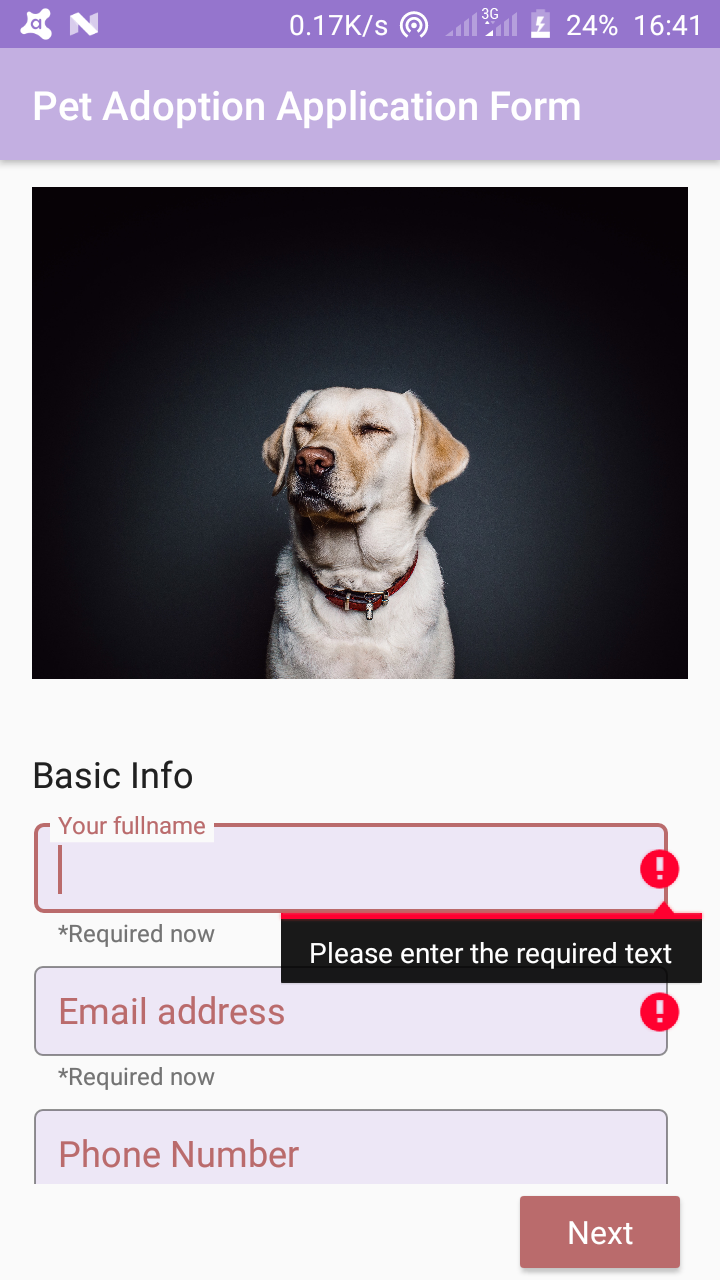
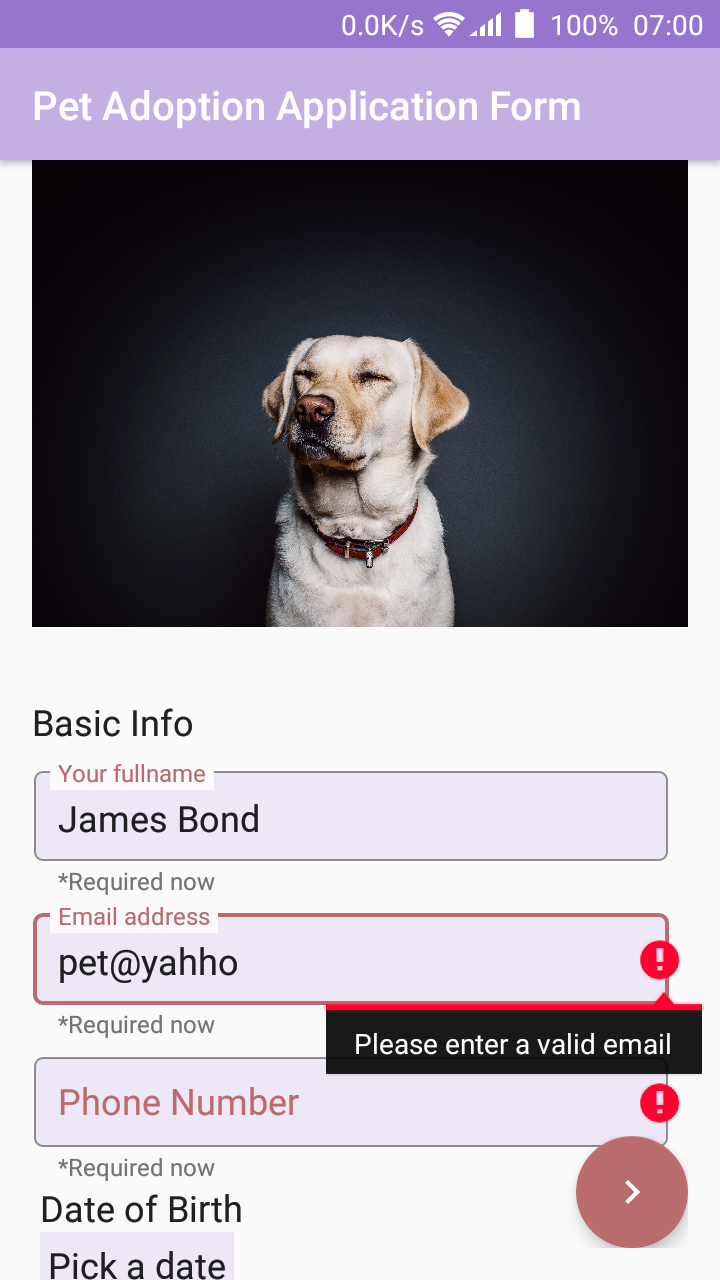
refactor: code and UI refactor

diff --git a/app/src/main/java/com/zizohanto/adoptapet/ui/FormFragment.java b/app/src/main/java/com/zizohanto/adoptapet/ui/FormFragment.java
@@ -1,5 +1,6 @@
 package com.zizohanto.adoptapet.ui;
 
+import android.annotation.SuppressLint;
 import android.app.DatePickerDialog;
 import android.content.Context;
 import android.databinding.DataBindingUtil;
@@ -7,6 +8,7 @@ import android.graphics.Typeface;
 import android.os.Bundle;
 import android.support.annotation.NonNull;
 import android.support.annotation.Nullable;
+import android.support.design.widget.FloatingActionButton;
 import android.support.design.widget.TextInputEditText;
 import android.support.design.widget.TextInputLayout;
 import android.support.v4.app.Fragment;
@@ -18,13 +20,13 @@ import android.text.InputFilter;
 import android.text.InputType;
 import android.text.TextUtils;
 import android.text.TextWatcher;
+import android.util.Log;
 import android.view.LayoutInflater;
 import android.view.View;
 import android.view.ViewGroup;
 import android.webkit.WebView;
 import android.widget.AdapterView;
 import android.widget.ArrayAdapter;
-import android.widget.Button;
 import android.widget.EditText;
 import android.widget.ImageView;
 import android.widget.LinearLayout;
@@ -76,6 +78,7 @@ public class FormFragment extends Fragment implements View.OnClickListener {
     private int mCurrentPageNumber;
     private int mCurrentPagePosition;
     private int mCount;
+    private boolean mIsFirstTimeFragmentCreation = true;
     private HashMap<String, String> mElementIdAndUserInputMap;
     private LinearLayout mBaseLayout;
     private FragmentFormBinding mFragmentFormBinding;
@@ -121,6 +124,7 @@ public class FormFragment extends Fragment implements View.OnClickListener {
         }
     }
 
+    @SuppressLint("RestrictedApi")
     @Override
     public View onCreateView(@Nullable LayoutInflater inflater, ViewGroup container,
                              Bundle savedInstanceState) {
@@ -137,16 +141,17 @@ public class FormFragment extends Fragment implements View.OnClickListener {
             restoreViews();
         }
 
-        Button nextButton = mFragmentFormBinding.nextButton;
+        FloatingActionButton nextButton = mFragmentFormBinding.nextButton;
         nextButton.setOnClickListener(this);
 
-        Button previousButton = mFragmentFormBinding.previousButton;
+        FloatingActionButton previousButton = mFragmentFormBinding.previousButton;
         previousButton.setOnClickListener(this);
 
         if (mCurrentPagePosition == Constants.CURRENT_PAGE_POSITION_FIRST) {
             previousButton.setVisibility(View.GONE);
         } else if (mCurrentPagePosition == Constants.CURRENT_PAGE_POSITION_LAST) {
-            nextButton.setText(mContext.getResources().getString(R.string.submit_button));
+            Log.e(TAG, "CURRENT_PAGE_POSITION_LAST: ");
+            nextButton.setImageDrawable(ContextCompat.getDrawable(mContext, R.drawable.ic_done_24dp));
         }
         return root;
     }
@@ -155,6 +160,7 @@ public class FormFragment extends Fragment implements View.OnClickListener {
     public void onSaveInstanceState(@NonNull Bundle outState) {
         outState.putInt(KEY_COUNT, mCount);
         outState.putStringArrayList(KEY_ACTION_DEPENDENT_VIEWS_UNIQUE_IDS, mActionDependentViewsUniqueIds);
+        // TODO: confirm which callback is always called before onSaveInstanceState so that setElementIdAndUserInputMap is called there
         setElementIdAndUserInputMap();
         outState.putSerializable(KEY_ELEMENT_ID_AND_USER_INPUT_MAP, mElementIdAndUserInputMap);
 
@@ -165,7 +171,14 @@ public class FormFragment extends Fragment implements View.OnClickListener {
     public void onActivityCreated(@Nullable Bundle savedInstanceState) {
         super.onActivityCreated(savedInstanceState);
 
-        mOnFragmentActivityCreatedListener.onFragmentActivityCreated();
+        mOnFragmentActivityCreatedListener.onFragmentActivityCreated(mIsFirstTimeFragmentCreation);
+    }
+
+    @Override
+    public void onDestroyView() {
+        super.onDestroyView();
+
+        mIsFirstTimeFragmentCreation = false;
     }
 
     private void setElementIdAndUserInputMap() {
@@ -239,7 +252,7 @@ public class FormFragment extends Fragment implements View.OnClickListener {
                         }
                         TextInputEditText inputEditText = getTextInputEditText(textInputLayout);
                         View.generateViewId();
-                        int textId = getElementIdInt(element.getUniqueId());
+                        int textId = getNumberFromTextElementId(element.getUniqueId());
                         inputEditText.setId(textId);
                         textInputLayout.addView(inputEditText);
                         setViewTag(element, textInputLayout);
@@ -268,14 +281,12 @@ public class FormFragment extends Fragment implements View.OnClickListener {
                         setViewTag(element, numericInputLayout);
                         setViewTag(element, numericEditText);
 
-                        setViewTag(element, numericEditText);
                         if (isADependentElement(element)) {
                             numericEditText.setVisibility(View.GONE);
                         }
 
-
                         View.generateViewId();
-                        int numericId = getNumericElementIdInt(element.getUniqueId());
+                        int numericId = getNumberFromNumericElementId(element.getUniqueId());
                         // To differentiate the ids of formattednumeric and text
                         numericEditText.setId(numericId + 100);
                         numericEditText.setInputType(InputType.TYPE_CLASS_NUMBER);
@@ -338,7 +349,7 @@ public class FormFragment extends Fragment implements View.OnClickListener {
                         textViewDate.setInputType(InputType.TYPE_CLASS_DATETIME);
                         textViewDate.setTextAppearance(android.R.style.TextAppearance_Medium);
                         textViewDate.setText(Constants.PICK_A_DATE);
-                        textViewDate.setBackgroundColor(ContextCompat.getColor(mContext, R.color.dateColor));
+                        textViewDate.setBackgroundColor(ContextCompat.getColor(mContext, R.color.boxcolor));
                         textViewDate.setPadding(8, 8, 8, 8);
                         setViewTag(element, textViewDate);
 
@@ -411,11 +422,11 @@ public class FormFragment extends Fragment implements View.OnClickListener {
         }
     }
 
-    private int getElementIdInt(String uniqueId) {
+    private int getNumberFromTextElementId(String uniqueId) {
         return Integer.valueOf(uniqueId.substring(5));
     }
 
-    private int getNumericElementIdInt(String uniqueId) {
+    private int getNumberFromNumericElementId(String uniqueId) {
         return Integer.valueOf(uniqueId.substring(17));
     }
 
@@ -539,18 +550,18 @@ public class FormFragment extends Fragment implements View.OnClickListener {
                     String elementId = elementIdAndMandatoryTag.get(0);
                     int textId;
                     try {
-                        textId = getElementIdInt(elementId);
+                        textId = getNumberFromTextElementId(elementId);
                     } catch (NumberFormatException e) {
-                        textId = getNumericElementIdInt(elementId);
+                        textId = getNumberFromNumericElementId(elementId) + 100;
                     }
                     View view2 = view1.findViewById(textId);
                     if (view2 instanceof EditText) {
                         EditText editText = ((EditText) view2);
-
                         Boolean elementIsMandatory = Boolean.valueOf(elementIdAndMandatoryTag.get(1));
                         String userInput = editText.getText().toString();
                         if (elementIsMandatory) {
                             if (!userInput.isEmpty()) {
+                                Log.e(TAG, "isValidated: " + userInput);
                                 if (isEmailEntry(editText)) {
                                     if (!ValidatorUtils.isValidEmailAddress(userInput)) {
                                         isValid = false;
@@ -610,7 +621,7 @@ public class FormFragment extends Fragment implements View.OnClickListener {
     }
 
     private boolean isPhoneEntry(EditText editText) {
-        return InputType.TYPE_CLASS_PHONE == editText.getInputType();
+        return InputType.TYPE_CLASS_NUMBER == editText.getInputType();
     }
 
     @Override
@@ -678,9 +689,9 @@ public class FormFragment extends Fragment implements View.OnClickListener {
                     String elementId = elementIdAndMandatoryTag.get(0);
                     int textId;
                     try {
-                        textId = getElementIdInt(elementId);
+                        textId = getNumberFromTextElementId(elementId);
                     } catch (NumberFormatException e) {
-                        textId = getNumericElementIdInt(elementId + 100);
+                        textId = getNumberFromNumericElementId(elementId + 100);
                     }
                     View view2 = view1.findViewById(textId);
                     if (view2 instanceof EditText) {
@@ -729,7 +740,7 @@ public class FormFragment extends Fragment implements View.OnClickListener {
 
     interface OnFragmentActivityCreatedListener {
 
-        void onFragmentActivityCreated();
+        void onFragmentActivityCreated(Boolean isFirstTimeCreation);
     }
 
 }

diff --git a/app/src/main/java/com/zizohanto/adoptapet/ui/MainActivity.java b/app/src/main/java/com/zizohanto/adoptapet/ui/MainActivity.java
@@ -25,11 +25,10 @@ public class MainActivity extends AppCompatActivity implements FormFragment.OnPa
         FormFragment.OnFragmentActivityCreatedListener {
     private static final String TAG = MainActivity.class.getSimpleName();
     private static final String KEY_CURRENT_PAGE_NUMBER = "com.zizohanto.adoptapet.ui.KEY_CURRENT_PAGE_NUMBER";
-    private static final String KEY_NUMBER_OF_FRAGMENTS_CREATED = "com.zizohanto.adoptapet.ui.KEY_NUMBER_OF_FRAGMENTS_CREATED";
+
     int mCurrentPageNumber;
     private Page mPage;
     private Pet mPet;
-    private int mNumberOfFragmentsCreated;
 
     private FormFragment mFormFragment;
     private FormFragment mSubsequentFragment;
@@ -42,7 +41,6 @@ public class MainActivity extends AppCompatActivity implements FormFragment.OnPa
 
         if (savedInstanceState != null) {
             mCurrentPageNumber = savedInstanceState.getInt(KEY_CURRENT_PAGE_NUMBER);
-            mNumberOfFragmentsCreated = savedInstanceState.getInt(KEY_NUMBER_OF_FRAGMENTS_CREATED);
         }
 
         String petJsonString = loadJSONFromAsset(this);
@@ -63,7 +61,6 @@ public class MainActivity extends AppCompatActivity implements FormFragment.OnPa
     @Override
     protected void onSaveInstanceState(Bundle outState) {
         outState.putInt(KEY_CURRENT_PAGE_NUMBER, mCurrentPageNumber);
-        outState.putInt(KEY_NUMBER_OF_FRAGMENTS_CREATED, mNumberOfFragmentsCreated);
 
         super.onSaveInstanceState(outState);
     }
@@ -88,7 +85,6 @@ public class MainActivity extends AppCompatActivity implements FormFragment.OnPa
     private void createFragment(Page page) {
         mFormFragment = (FormFragment)
                 getSupportFragmentManager().findFragmentByTag(String.valueOf(mCurrentPageNumber));
-
         if (mFormFragment == null) {
             // Create the fragment
             mFormFragment = FormFragment.newInstance(page, mCurrentPageNumber, getPagePosition());
@@ -158,18 +154,16 @@ public class MainActivity extends AppCompatActivity implements FormFragment.OnPa
         }
     }
 
+    /**
+     * @param isFirstTimeFragmentCreation is true if this fragment has not been created before
+     *                                    If true then there is nothing to restore
+     */
     @Override
-    public void onFragmentActivityCreated() {
-        mNumberOfFragmentsCreated++;
-
-        if (mSubsequentFragment != null && fragmentCreatedFirstTime()) {
+    public void onFragmentActivityCreated(Boolean isFirstTimeFragmentCreation) {
+        if (mSubsequentFragment != null && !isFirstTimeFragmentCreation) {
             // dump the existing form state in the fragment displayed
             mSubsequentFragment.restoreState(mExistingFragmentFormState);
         }
-    }
-
-    private boolean fragmentCreatedFirstTime() {
-        return mNumberOfFragmentsCreated != (mCurrentPageNumber + 1);
     }
 
 }
